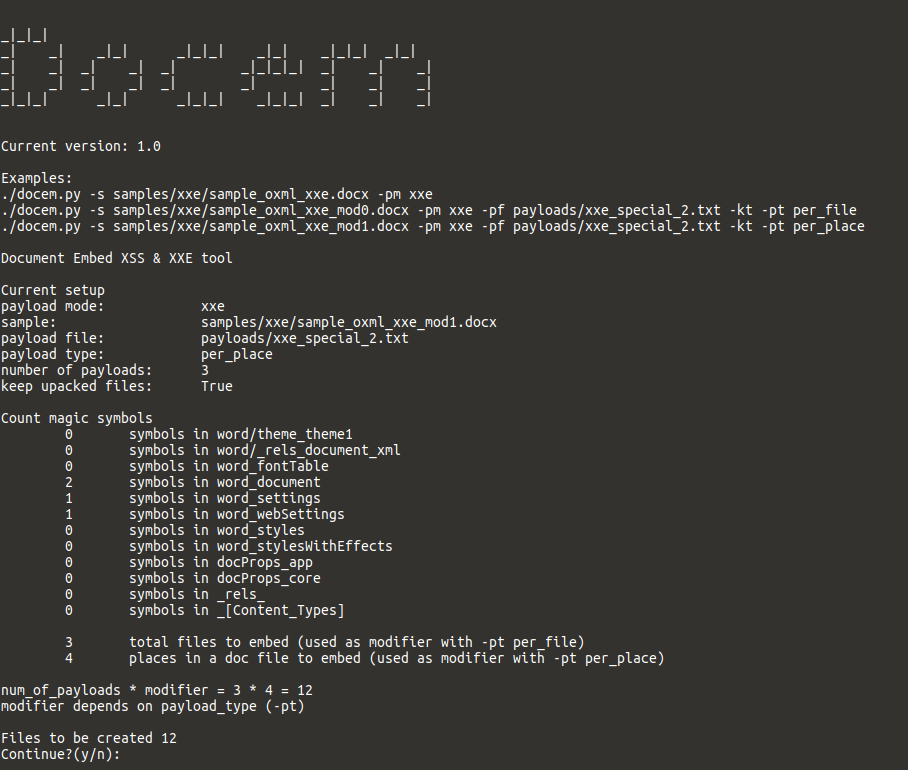
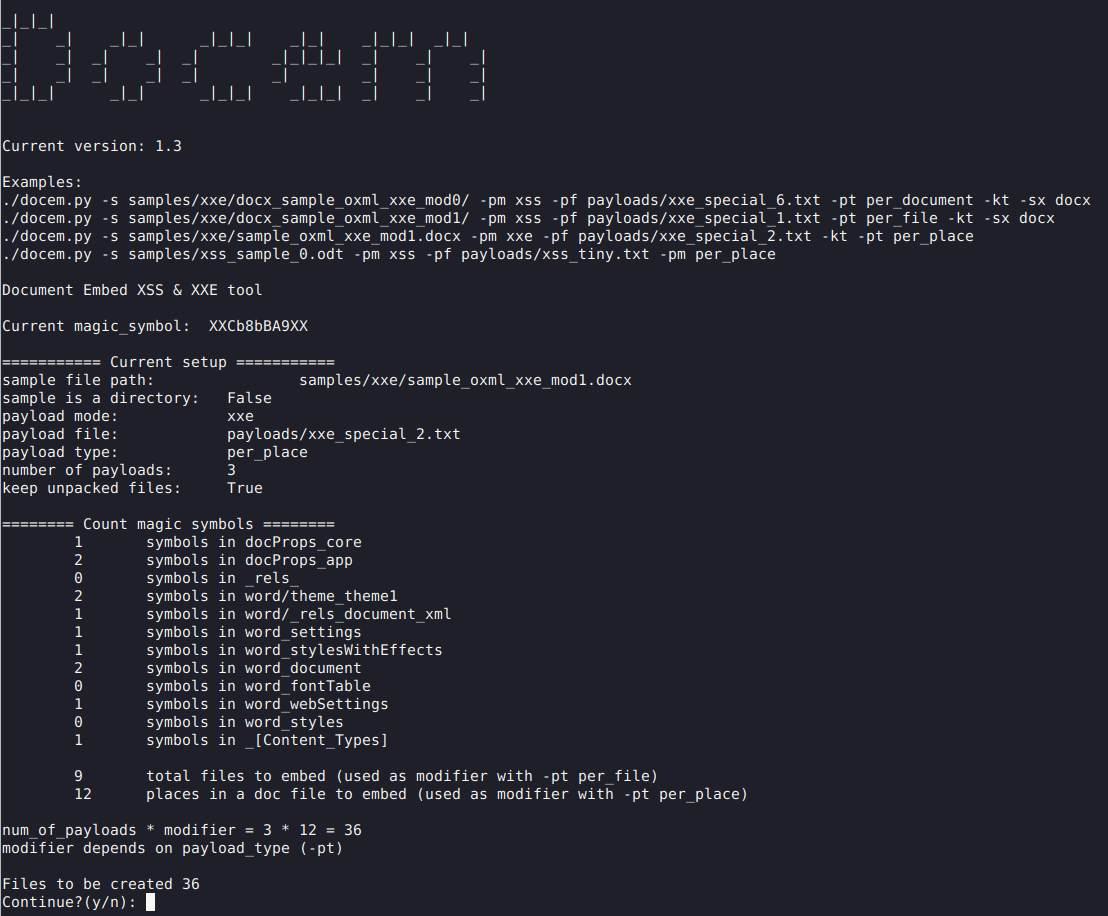
relevant payload examples added

Changed region(s): [[0.0, 0.0, 0.9868, 0.9974], [0.0617, 0.0312, 0.4626, 0.1247], [0.2159, 0.1247, 0.2467, 0.1558]]

diff --git a/docem.py b/docem.py
@@ -429,10 +429,10 @@ _|_|_|      _|_|      _|_|_|    _|_|_|  _|    _|    _|
 
 def interface_print_example():
 	examples = 	[
-		'./docem.py -s samples/xxe/sample_oxml_xxe_mod0/ -pm xss -pf payloads/xss_all.txt -pt per_document -kt -sx docx',
+		'./docem.py -s samples/xxe/docx_sample_oxml_xxe_mod0/ -pm xss -pf payloads/xxe_special_6.txt -pt per_document -kt -sx docx',
+		'./docem.py -s samples/xxe/docx_sample_oxml_xxe_mod1/ -pm xss -pf payloads/xxe_special_1.txt -pt per_file -kt -sx docx',
 		'./docem.py -s samples/xxe/sample_oxml_xxe_mod1.docx -pm xxe -pf payloads/xxe_special_2.txt -kt -pt per_place',
-		'./docem.py -s samples/xss_sample_0.odt -pm xss -pf payloads/xss_tiny.txt -pm per_place',
-		'./docem.py -s samples/xxe/sample_oxml_xxe_mod0/ -pm xss -pf payloads/xss_all.txt -pt per_file -kt -sx docx'
+		'./docem.py -s samples/xss_sample_0.odt -pm xss -pf payloads/xss_tiny.txt -pm per_place'
 	]
 	
 	print('Examples:\n%s\n' % '\n'.join(e for e in examples))
@@ -487,13 +487,13 @@ if __name__ == '__main__':
 				os.mkdir(paths["path_to_tmp"])
 
 			print('\n=========== Current setup ===========')
-			print('sample file:\t\t',args.sample)
-			print('sample is it dir:\t',paths['sample_type_is_folder'])
+			print('sample file path:\t\t',args.sample)
+			print('sample is a directory:\t',paths['sample_type_is_folder'])
 			print('payload mode:\t\t',args.payload_mode)
 			print('payload file:\t\t',args.payload_file)
 			print('payload type:\t\t',args.payload_type)
 			print('number of payloads:\t',len(payloads))
-			print('keep upacked files:\t',args.keep_tmp)
+			print('keep unpacked files:\t',args.keep_tmp)
 
 			document_unpack(paths)
 			tree = document_tree_generate(paths)

diff --git a/README.md b/README.md
@@ -1,4 +1,4 @@
-сф
+
 ```
 _|_|_|                                                  
 _|    _|    _|_|      _|_|_|    _|_|    _|_|_|  _|_|    
@@ -25,10 +25,10 @@ So why not embed XXE payloads in them?
 That was done by a great [research](http://oxmlxxe.github.io/reveal.js/slides.html#/) by Will Vandevanter (`_will_is`)
 To create such documents with embedded payloads there is a famous tool called [oxml_xxe](https://github.com/BuffaloWill/oxml_xxe). 
 
-But. It is not convinient to use `oxml_xxe` when you need to create hundreds of documents with payloads in different places.
+But. It is not convenient to use `oxml_xxe` when you need to create hundreds of documents with payloads in different places.
 So there it goes - Docem.
 
-It works like that: You specify sample document - that is a doc that has some `magic_symbols` (in illustratuin it is `፨` (in program it is constant `XXCb8bBA9XX`))  that will be replaced by your refernce to a payload in case of XXE payload, or will be replaces by your XSS payload.
+It works like that: You specify sample document - that is a doc that has some `magic_symbols` (in illustrations it is marked as `፨` (in program it is constant `XXCb8bBA9XX`))  that will be replaced by your reference to a payload in case of XXE payload, or will be replaces by your XSS payload.
 
 Also there are three different types of `payload_type` - every type determine how every `magic_symbol` will be processed for a given file in a document.
 Every `payload_type` described in section `Usage`.
@@ -65,7 +65,7 @@ python3 docem.py --help
 - optional
 	- `-pt` - payload type
 		- `per_document` - (default mode) for every payload, embed payload in all places in all files and create new doc
-		- `per_file` - for every payload, for every file inside a docuement, for all places inside file embed payload and create new doc
+		- `per_file` - for every payload, for every file inside a document, for all places inside file embed payload and create new doc
 		- `per_place` - for every payload, for every place in every file, embed payload and create new doc
 	- `-pf` - payoload file
 	- `-kt` - do not delete temp folders in tmp 
@@ -74,10 +74,15 @@ python3 docem.py --help
 
 Examples 
 ```bash
-./docem.py -s samples/xxe/sample_oxml_xxe_mod0/ -pm xss -pf payloads/xss_all.txt -pt per_document -kt -sx docx
+./docem.py -s samples/xxe/docx_sample_oxml_xxe_mod0/ -pm xss -pf payloads/xxe_special_6.txt -pt per_document -kt -sx docx
+./docem.py -s samples/xxe/docx_sample_oxml_xxe_mod1/ -pm xss -pf payloads/xxe_special_1.txt -pt per_file -kt -sx docx
 ./docem.py -s samples/xxe/sample_oxml_xxe_mod1.docx -pm xxe -pf payloads/xxe_special_2.txt -kt -pt per_place
 ./docem.py -s samples/xss_sample_0.odt -pm xss -pf payloads/xss_tiny.txt -pm per_place
-./docem.py -s samples/xxe/sample_oxml_xxe_mod0/ -pm xss -pf payloads/xss_all.txt -pt per_file -kt -sx docx
+```
+
+An equivalent to a `docx` file created by OXML_XXE 
+```
+./docem.py -s samples/xxe/docx_sample_oxml_xxe_mod0/ -pm xss -pf payloads/xxe_special_6.txt -pt per_document -kt -sx docx
 ```
 
 
@@ -86,7 +91,7 @@ Examples
 ### Via new file
 
 1. Extract your document `example.docx`
-2. Add magic symbols - `፨` (yes, literally - those fancy 5 dots) in places where you want payloads to be embed
+2. Add magic symbols - `XXCb8bBA9XX` - (depicted as `፨` in illustrations of this readme) in places where you want payloads to be embed
 3. Zip your new sample into `example_modified0.zip`
 4. Rename extension - `example_modified0.docx`
 5. Use new sample with tool
